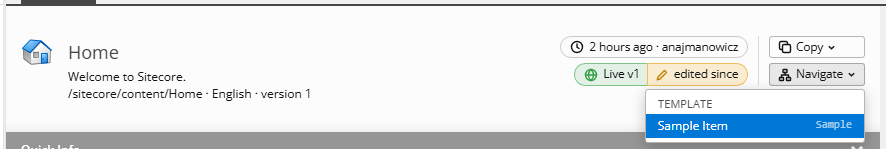
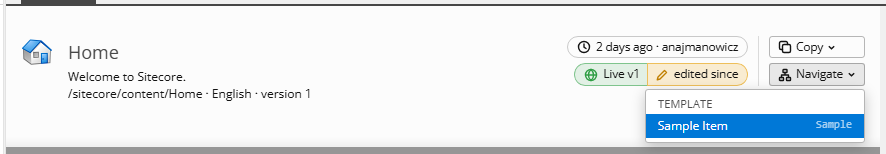
Item info: a Stored pill says whether the item is in the database, the resource files, or both
- The Sitecore module answers GET /sitecore/shell/sitecore-themes/location?db=&id= from the database's
  CompositeDataProvider.GetItemLocations (Sitecore 10.1+), for signed-in users who can read the item; 404 otherwise
- The pill shows "In database", "In resource files" (blue) or "Database overrides resource" (amber, warning
  triangle), whose tooltip names dotnet sitecore itemres cleanup
- One request per item opened, while the browser is idle; no pill and no placeholder without the module

diff --git a/extension/lib/aids/item-info.js b/extension/lib/aids/item-info.js
@@ -2,7 +2,8 @@
 // last modified and by whom (the user name without its domain), and which version in this language is live in the web
 // database against what the next publish would put there: up to date, edited since it was published, a newer version
 // still in workflow or ready to publish, or the item or a version held back by its publishing settings (and live content
-// the next publish takes down); Copy puts the item's or its template's name, path or ID on the clipboard, and Navigate
+// the next publish takes down); with the Sitecore module deployed, a third chip says whether the item is stored in the
+// items as resources files, the database, or both (a database copy hiding the resource item, shown as a warning); Copy puts the item's or its template's name, path or ID on the clipboard, and Navigate
 // opens its template, or one of the templates that template inherits from (Sitecore's own, under
 // /sitecore/templates/System, left out).
 // Nothing here holds up the editor: the chips fill in once the browser is idle, from the version list Sitecore shows
@@ -34,6 +35,8 @@
     hidden: svg('<path d="M1.5 7S3.5 3 7 3s5.5 4 5.5 4-2 4-5.5 4S1.5 7 1.5 7z"/><circle cx="7" cy="7" r="1.8"/><path d="M2 2l10 10"/>'),
     takedown: svg('<path d="M7 1.5v7M4.5 6L7 8.5 9.5 6M2.5 12h9"/>'),
     back: svg('<path d="M5 3.5L2.5 6 5 8.5"/><path d="M2.5 6H9a3 3 0 0 1 0 6H6"/>'),
+    sql: svg('<ellipse cx="7" cy="3.5" rx="4.5" ry="2"/><path d="M2.5 3.5v7c0 1.1 2 2 4.5 2s4.5-.9 4.5-2v-7M2.5 7c0 1.1 2 2 4.5 2s4.5-.9 4.5-2"/>'),
+    resource: svg('<path d="M3 1.5h5l3 3v8H3z"/><path d="M8 1.5v3h3M5 7.5h4M5 10h4"/>'),
     down: '<svg viewBox="0 0 10 10" width="9" height="9" aria-hidden="true" fill="none" stroke="currentColor" stroke-width="1.5"><path d="M2 3.5l3 3 3-3"/></svg>',
   };
   const inheritance = new Map(); // template ID -> Promise of [{ id, name, folder, depth }]
@@ -227,6 +230,22 @@
     return { ...head, title: [head.title, next && next.title, ...notes].filter(Boolean).join(" "), next };
   }
 
+  // Where the item is stored, from the Sitecore module's endpoint (sitecore/ThemesProcessor.cs Location): null without
+  // the module, before Sitecore 10.1, or behind a database's own data provider.
+  async function location(doc, item, signal) {
+    const r = await fetch(`${doc.location.origin}/sitecore/shell/sitecore-themes/location?${new URLSearchParams({ db: item.db, id: item.id })}`, { credentials: "include", signal });
+    return r.ok && /json/.test(r.headers.get("content-type") || "") ? r.json() : null;
+  }
+
+  // The Stored pill for location() at: a database copy over an items-as-resources item is the one to warn about, since
+  // it hides whatever newer version a module or an upgrade ships in its resource files.
+  function stored(at, db) {
+    if (!at || !(at.resource || at.sql)) return null;
+    if (at.resource && at.sql) return { state: "both", icon: "gone", text: "Database overrides resource", title: `The ${db} database has its own copy of this item, which hides the one in the items as resources (.dat) files: a newer version that a module or an upgrade ships there stays hidden until the copy is removed (dotnet sitecore itemres cleanup).` };
+    if (at.resource) return { state: "resource", icon: "resource", text: "In resource files", title: "Stored only in the items as resources (.dat) files, not in the database. Saving a change copies the item into the database, where it overrides the resource." };
+    return { state: "sql", icon: "sql", text: "In database", title: `Stored in the ${db} database only.` };
+  }
+
   // the bases of a template, as its Inheritance tab nests them, Sitecore's own left out with everything under them
   function bases(doc, item, tid) {
     if (!inheritance.has(tid)) {
@@ -297,12 +316,20 @@
     later(async () => {
       if (ctrl.signal.aborted) return;
       const [mod, pub] = status.children;
-      const [mine, web, settings] = await Promise.allSettled([
+      const [mine, web, settings, where] = await Promise.allSettled([
         gallery(ctx.doc, item, item.db, ctrl.signal),
         pub ? gallery(ctx.doc, item, "web", ctrl.signal) : null,
         pub ? rules(ctx.doc, item, ctrl.signal) : null,
+        location(ctx.doc, item, ctrl.signal),
       ]);
       if (ctrl.signal.aborted || !header.isConnected) return;
+      // no placeholder: most sites have no module to ask, and a pill that comes and goes on every item would flicker
+      const s = where.status === "fulfilled" && stored(where.value, item.db);
+      if (s) {
+        const c = chip(ctx.doc, "stored");
+        fill(c, ICONS[s.icon], s.text, s.title, s.state);
+        status.append(c);
+      }
       const v = mine.status === "fulfilled" && (mine.value.find((r) => r.ver === item.ver) || mine.value.at(-1));
       if (v) fill(mod, ICONS.clock, `${ago(v.date) || v.date} · ${v.user.slice(v.user.lastIndexOf("\\") + 1)}`, `Modified ${v.date} by ${v.user}`);
       else mod.remove(); // signed out, or a page Sitecore would not give: no chip rather than a wrong one
@@ -483,7 +510,7 @@
     load(ctx, header, status, item);
   }
 
-  SCT.itemInfo = { published, candidate, when }; // for the unit tests
+  SCT.itemInfo = { published, candidate, when, stored }; // for the unit tests
 
   SCT.registerAid("item-info", {
     css: `.scEditorHeader:has(>sct-item-info){display:flow-root;height:auto!important}
@@ -504,6 +531,10 @@ sct-item-chip[data-state="held"] svg,sct-item-chip>sct-item-next[data-state="hel
 sct-item-chip>sct-item-next[data-state="gone"] svg{color:#e03131}
 sct-item-sr{position:absolute;width:1px;height:1px;overflow:hidden;clip-path:inset(50%);white-space:nowrap}
 sct-item-chip svg,sct-item-info button svg{flex:none}
+sct-item-chip[data-state="resource"]{background:color-mix(in srgb,#1c7ed6 12%,transparent);border-color:color-mix(in srgb,#1c7ed6 50%,transparent)}
+sct-item-chip[data-state="resource"] svg{color:#1c7ed6}
+sct-item-chip[data-state="both"]{background:color-mix(in srgb,#e8a10c 22%,transparent);border-color:color-mix(in srgb,#e8a10c 75%,transparent);font-weight:600}
+sct-item-chip[data-state="both"] svg{color:#c07f00}
 sct-item-chip[data-state="yes"]{background:color-mix(in srgb,#2f9e44 13%,transparent);border-color:color-mix(in srgb,#2f9e44 55%,transparent)}
 sct-item-chip[data-state="yes"] svg{color:#2f9e44}
 sct-item-chip[data-state="no"]{background:color-mix(in srgb,#e8a10c 15%,transparent);border-color:color-mix(in srgb,#e8a10c 60%,transparent)}

diff --git a/extension/lib/settings.js b/extension/lib/settings.js
@@ -155,7 +155,7 @@
     "reduced-motion": { needs: ["motion"], always: false, surfaces: null, name: "Reduced motion", hint: "Stops Sitecore's and the theme's animations and transitions" },
     "focus-mode": { needs: ["reading"], always: false, surfaces: ["shell"], name: "Focus mode", hint: "Fades the other fields, the tree and the ribbon while you edit a field" },
     "sticky-header": { ui: "editor", needs: [], always: true, surfaces: ["shell"], name: "Sticky item header", hint: "Keeps the item's name and icon in view while its fields scroll under them" },
-    "item-info": { ui: "editor", needs: [], always: true, surfaces: ["shell"], name: "Item info", hint: "Shows when the item was modified and by whom and whether it is published, with menus to copy its name, path or ID and to open its templates" },
+    "item-info": { ui: "editor", needs: [], always: true, surfaces: ["shell"], name: "Item info", hint: "Shows when the item was modified and by whom, whether it is published and, with the Sitecore module, whether it is stored in the database or the resource files, with menus to copy its name, path or ID and to open its templates" },
     "content-tab": { ui: "editor", needs: [], always: true, surfaces: ["shell"], name: "Content tab first", hint: "Opens every item on its Content tab, not on a Folder or other editor tab" },
     "ce-state": { ui: "return", needs: [], always: true, surfaces: ["shell"], name: "Remember Content Editor state", hint: "Opens the Content Editor on the item you last had open, with Quick Info open or closed as you left it" },
     "ee-state": { ui: "return", needs: [], always: true, surfaces: ["ee"], name: "Remember Experience Editor state", hint: "Opens the Experience Editor on the page you last had open, unless you open it on a page of your choosing" },

diff --git a/test/unit/item-info.test.js b/test/unit/item-info.test.js
@@ -67,3 +67,14 @@ test("item-info: publishing settings hold back the item or a version, and the pi
   // no settings read: as before
   assert.deepEqual(go([v(1), v(2)], [v(2)], undefined, null), ["yes", "Published · v2", null, null]);
 });
+
+test("item-info: the Stored pill, from where the module says the item lives", () => {
+  const { stored } = globalThis.SCT.itemInfo;
+  const said = (at) => { const s = stored(at, "master"); return s && [s.state, s.text]; };
+  assert.deepEqual(said({ resource: true, sql: false }), ["resource", "In resource files"]);
+  assert.deepEqual(said({ resource: false, sql: true }), ["sql", "In database"]);
+  assert.deepEqual(said({ resource: true, sql: true }), ["both", "Database overrides resource"]);
+  // no module, or nothing found: no pill
+  assert.equal(stored(null, "master"), null);
+  assert.equal(stored({ resource: false, sql: false }, "master"), null);
+});

diff --git a/sitecore/ThemesProcessor.cs b/sitecore/ThemesProcessor.cs
@@ -8,6 +8,9 @@ using System.Web;
 using System.Web.Hosting;
 using System.Web.Script.Serialization;
 using Sitecore.Configuration;
+using Sitecore.Data;
+using Sitecore.Data.DataProviders;
+using Sitecore.Data.DataProviders.ItemLocations;
 using Sitecore.Pipelines.HttpRequest;
 
 namespace SitecoreThemes
@@ -19,6 +22,8 @@ namespace SitecoreThemes
     {
         public const string Base = "/sitecore modules/SitecoreThemes/";
         public const string SavePath = "/sitecore/shell/sitecore-themes/save";
+        public const string LocationPath = "/sitecore/shell/sitecore-themes/location";
+        static readonly Regex DbName = new Regex("^[A-Za-z0-9_.-]{1,40}$");
         const string ThemeKey = "SitecoreThemes.Theme";
         const string HueKey = "SitecoreThemes.Hue";
         const string EnvKey = "SitecoreThemes.Environment";
@@ -64,6 +69,12 @@ namespace SitecoreThemes
             if (path.Equals(SavePath, StringComparison.OrdinalIgnoreCase))
             {
                 Save(context);
+                args.AbortPipeline();
+                return;
+            }
+            if (path.Equals(LocationPath, StringComparison.OrdinalIgnoreCase))
+            {
+                Location(context);
                 args.AbortPipeline();
                 return;
             }
@@ -240,6 +251,29 @@ namespace SitecoreThemes
             if (string.IsNullOrEmpty(saved)) return null;
             try { return new JavaScriptSerializer().Deserialize<Dictionary<string, int>>(saved); }
             catch (Exception e) when (e is ArgumentException || e is InvalidOperationException) { return null; }
+        }
+
+        // GET ?db=master&id={...}: where an item is stored, {"resource":bool,"sql":bool} (Item info's Stored pill): in the
+        // items as resources files, the database, or both (a database copy that hides the resource item). 404 for a user
+        // not signed in, an item they cannot read, or a database whose first provider is not Sitecore's composite one.
+        static void Location(HttpContextBase context)
+        {
+            var user = Sitecore.Context.User;
+            var name = context.Request.QueryString["db"];
+            var db = user != null && user.IsAuthenticated && name != null && DbName.IsMatch(name) ? Factory.GetDatabase(name, false) : null;
+            var composite = db?.GetDataProviders().FirstOrDefault() as CompositeDataProvider;
+            ID id;
+            AggregatedItemLocations at = null;
+            if (composite != null && ID.TryParse(context.Request.QueryString["id"], out id) && db.GetItem(id) != null)
+                at = composite.GetItemLocations(new[] { id }, new CallContext(db.DataManager, 1)).FirstOrDefault();
+            if (at == null) context.Response.StatusCode = 404;
+            else
+            {
+                context.Response.ContentType = "application/json";
+                context.Response.Cache.SetCacheability(HttpCacheability.NoCache);
+                context.Response.Write(new JavaScriptSerializer().Serialize(new { resource = at.IsResource(), sql = at.IsSql() }));
+            }
+            context.ApplicationInstance.CompleteRequest();
         }
 
         // POST any of theme=<id>, hue=<0-359> with hueTheme=<id>, env=<prod|staging|qa|dev|sandbox|local|beta>,

diff --git a/docs/ui-improvements.md b/docs/ui-improvements.md
@@ -176,7 +176,7 @@ each button's name, and that a greyed-out one is unavailable.
 <!-- /shots:section-toggle -->
 
 ### Item info
-<!-- aid:item-info b3014e5dd1 -->
+<!-- aid:item-info 73e8061fa4 -->
 
 **What it is for.** When an item was last changed, by whom, and whether it is live are spread over the Statistics
 section (hidden with the standard fields), the version menu and the web database. Copying an item's ID or opening the
@@ -198,14 +198,18 @@ when the live version was changed after it was published. A screen reader hears 
 each in a sentence, with anything the pill had no room for. The settings come from the item's Publishing Settings
 dialog, read without opening it; the workflow state from the Review tab's workflow menu, where a state with no
 workflow commands, such as Sample Workflow's Approved, counts as final.
+With the Sitecore module deployed (Sitecore 10.1 and later), a third pill says where the item is stored: "In
+database", in blue "In resource files" for an item that lives only in the items as resources (.dat) files Sitecore and
+modules ship, and in amber, with a warning triangle, "Database overrides resource" for a database copy of a resource
+item. That copy hides whatever newer version a module or an upgrade ships in its resource files, so its tooltip says
+how to remove it (`dotnet sitecore itemres cleanup`). Without the module there is no pill.
 **Copy** opens a menu of the item's and its template's name, path and ID; picking one copies it. **Navigate** opens a
 menu of the item's template and the templates it inherits from, nested, with Sitecore's own (under
 /sitecore/templates/System) left out; picking one opens it in the Content Editor.
 
 The panel never holds up the editor: the pills fill in once the browser is idle, from the version list Sitecore shows
-under the version button, the publishing settings (and the workflow menu, only when web lacks the version that would
-go live), and Navigate asks for the
-template's inheritance only when it opens. Copy reads Quick Info, already in the page; with Quick Info switched off
+under the version button, the publishing settings, the module (for where the item is stored), and the workflow menu
+only when web lacks the version that would go live; Navigate asks for the template's inheritance only when it opens. Copy reads Quick Info, already in the page; with Quick Info switched off
 there is no template to copy or open, so Navigate is left out.
 
 Both buttons are menu buttons: Enter, Space or Down opens the menu with focus on its first entry, the arrows, Home and
